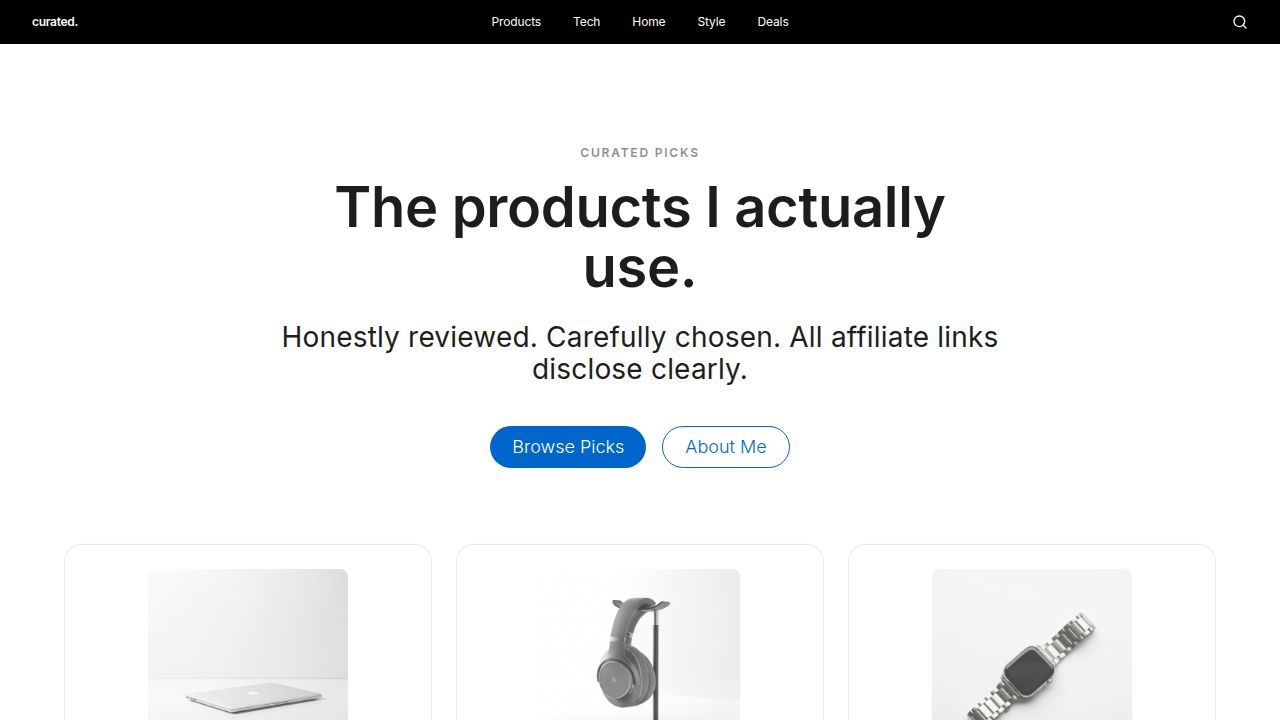
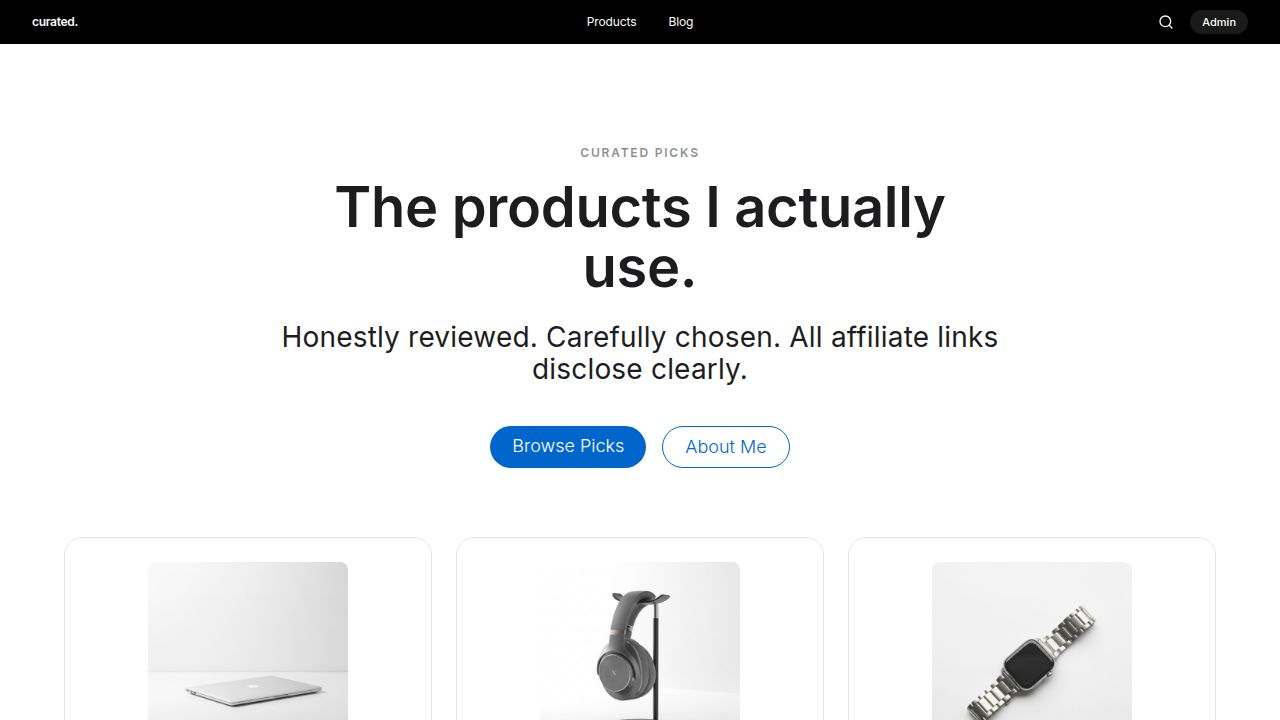
Fix product editing to display existing product information
Update the admin product form to fetch product data by ID from the product list endpoint instead of a non-existent individual product endpoint, resolving a 404 error when editing products.

Replit-Commit-Author: Agent
Replit-Commit-Session-Id: 3e87d08a-ab79-43fb-9983-de9f7381059e
Replit-Commit-Checkpoint-Type: full_checkpoint
Replit-Commit-Event-Id: af5c7891-e271-4b4d-8a8f-0208e33aaa19
Replit-Commit-Screenshot-Url: https://storage.googleapis.com/screenshot-production-us-central1/ea490a4d-e8ff-45d0-99a0-9a00f3f7578f/3e87d08a-ab79-43fb-9983-de9f7381059e/T6OksJ8
Replit-Helium-Checkpoint-Created: true

diff --git a/artifacts/affiliate-links/src/pages/admin/ProductForm.tsx b/artifacts/affiliate-links/src/pages/admin/ProductForm.tsx
@@ -16,13 +16,14 @@ import {
 } from "@/components/ui/select";
 import { Checkbox } from "@/components/ui/checkbox";
 import { toast } from "@/hooks/use-toast";
-import { Loader2, Plus, X } from "lucide-react";
+import { Loader2, X } from "lucide-react";
 
 export default function ProductForm() {
   const { id } = useParams();
   const [, navigate] = useLocation();
   const queryClient = useQueryClient();
   const isEdit = id && id !== "new";
+  const productId = isEdit ? Number(id) : null;
 
   const [formData, setFormData] = useState<Partial<Product>>({
     title: "",
@@ -42,11 +43,13 @@ export default function ProductForm() {
     queryFn: () => api.categories.list(),
   });
 
-  const { data: product, isLoading: productLoading } = useQuery({
-    queryKey: ["product", id],
-    queryFn: () => api.products.get(id!),
-    enabled: !!isEdit,
+  const { data: products = [] } = useQuery({
+    queryKey: ["products", "all"],
+    queryFn: () => api.products.list({ status: "all" }),
   });
+
+  const product = isEdit ? products.find((item) => item.id === productId) ?? null : null;
+  const productLoading = isEdit && !product && products.length === 0;
 
   useEffect(() => {
     if (product) {
@@ -130,7 +133,7 @@ export default function ProductForm() {
             />
           </div>
 
-          <div className="space-y-2">
+          <div className="space-y-2 md:col-span-2">
             <Label>Images</Label>
             <div className="grid grid-cols-2 gap-4">
               {formData.images?.map((img, idx) => (